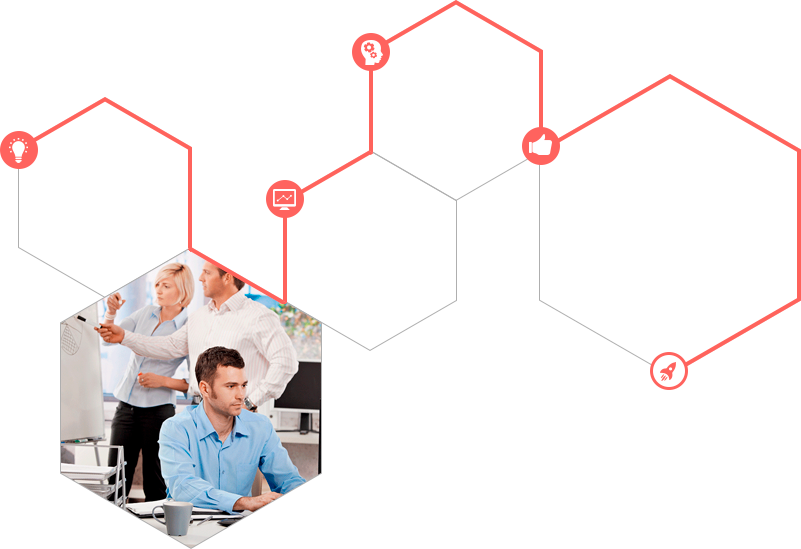
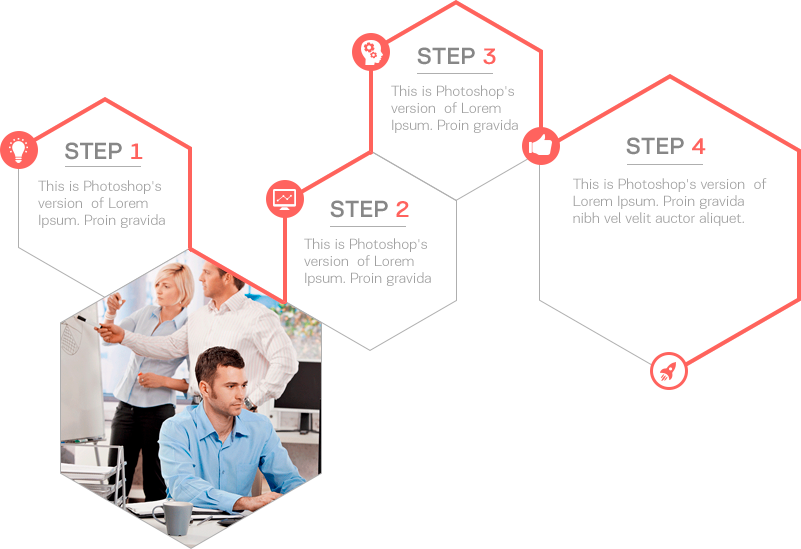
add

diff --git a/newWeb1.06/main.html b/newWeb1.06/main.html
@@ -115,7 +115,7 @@
                 </div>
             </div>
             <div class = "slider">
-                <a href="#threemain">
+                <a href="#formain">
                     <img src="./img/slider.png" alt="nothing">
                 </a>
             </div>
@@ -130,34 +130,6 @@
             </div>
             <div class="step">
                 <img src="./img/lines.png" alt="!!!!">
-                <div class="step1">
-                    <div class="name"> STEP 1</div>
-                    <img src="./img/underlite.png" alt="client">
-                    <div class="textline">
-                        This is Photoshop's version  of Lorem Ipsum. Proin gravida nibh vel velit auctor aliquet. Aenean 
-                    </div>
-                </div>
-                <div class="step2">
-                    <div class="name"> STEP 2</div>
-                    <img src="./img/underlite.png" alt="client">
-                    <div class="textline">
-                        This is Photoshop's version  of Lorem Ipsum. Proin gravida nibh vel velit auctor aliquet. Aenean 
-                    </div>
-                </div>
-                <div class="step3">
-                    <div class="name"> STEP 3</div>
-                    <img src="./img/underlite.png" alt="client">
-                    <div class="textline">
-                        This is Photoshop's version  of Lorem Ipsum. Proin gravida nibh vel velit auctor aliquet. Aenean 
-                    </div>
-                </div>
-                <div class="step4">
-                    <div class="name"> STEP 4</div>
-                    <img src="./img/underlite.png" alt="client">
-                    <div class="textline">
-                        This is Photoshop's version  of Lorem Ipsum. Proin gravida nibh vel velit auctor aliquet. Aenean 
-                    </div>
-                </div>
             </div>
             <div class = "slider">
                 <a href="#threemain">
@@ -165,5 +137,137 @@
                 </a>
             </div>
         </div>
+        <div id='formain' class="formain">
+            <div class="onelogo">
+                <div class="onelogohead">WHAT DO WE DO?</div>
+                <div class="betwen">
+                    <img src="./img/underfull.png" alt="">
+                </div>
+            </div>
+            <div class="blocks">
+                <div class="left">
+                    <div class="litetitle">Landing Pages</div>
+                    <div class="text">This is Photoshop's version  of Lorem Ipsum. Proin gravida nibh vel velit auctor aliquet. Aenean sollicitudin, lorem quis bibendum auctor, nisi elit consequat ipsum, nec sagittis sem nibh id elit. Duis sed odio sit amet nibh vulputate cursus a sit amet mauris. Morbi accumsan ipsum velit. Nam </div>
+                    <button>More details</button>
+                </div>
+                <div class="right">
+                    <img src="./img/devices.png" alt="dev">
+                </div>
+            </div>
+            <div class = "slider">
+                <a href="fivemain">
+                    <img src="./img/slider.png" alt="nothing">
+                </a>
+            </div>
+        </div>
+        <div class="fivemain">
+            <div class="blocks">
+                <div class="left">
+                    <img src="./img/devices2.png" alt="">
+                </div>
+                <div class="right">
+                    <div class="litetitle">advertising</div>
+                    <div class="text">This is Photoshop's version  of Lorem Ipsum. Proin gravida nibh vel velit auctor aliquet. Aenean sollicitudin, lorem quis bibendum auctor, nisi elit consequat ipsum, nec sagittis sem nibh id elit. Duis sed odio sit amet nibh vulputate cursus a sit amet mauris. Morbi accumsan ipsum velit. Nam </div>
+                    <button>Mote Details</button>
+                </div>
+            </div>
+            <div class = "slider">
+                <a href="#sixmain">
+                    <img src="./img/slider.png" alt="nothing">
+                </a>
+            </div>
+        </div>
+        <div id="#sixmain" class="sixmain">
+            <div class="blocks">
+                <div class="left">
+                    <div class="litetitle">marketing kit</div>
+                    <div class="text">This is Photoshop's version  of Lorem Ipsum. Proin gravida nibh vel velit auctor aliquet. Aenean sollicitudin, lorem quis bibendum auctor, nisi elit consequat ipsum, nec sagittis sem nibh id elit. Duis sed odio sit amet nibh vulputate cursus a sit amet mauris. Morbi accumsan ipsum velit. Nam</div>
+                    <button>More Dateils</button>
+                </div>
+                <div class="right">
+                    <img src="./img/book.png" alt="">
+                </div>
+            </div>
+            <div class = "slider">
+                <a href="sevenmain">
+                    <img src="./img/slider.png" alt="nothing">
+                </a>
+            </div>
+        </div>
+        <div class="sevenmain">
+            <div class="onelogo">
+                <div class="onelogohead">portfolio</div>
+                <div class="betwen">
+                    <img src="./img/underfull.png" alt="">
+                </div>
+            </div>
+            <div class="menu">
+                <img src="./img/underall.png" alt="">
+                <div class="text">all          /           entertainment           /          sport          /           business          /          building</div>
+                <img src="./img/underall.png" alt="">
+            </div>
+            <div class="main">
+                <img src="./img/portfolio.png" alt="">
+            </div>
+            <div class="button">
+                <button>I want landing page</button>
+            </div>
+            <div class = "slider">
+                <a href="sevenmain">
+                    <img src="./img/slider.png" alt="nothing">
+                </a>
+            </div>
+        </div>
+        <div class="team">
+            <div class="onelogo">
+                <div class="onelogohead">OUR TEAM</div>
+                <div class="betwen">
+                    <img src="./img/underfull.png" alt="">
+                </div>
+            </div>
+            <div class="main">
+                <div class="stuff">
+                    <div class="teamuser">
+                        <div class="img">
+                            <img src="./img/tomothy.png" alt="">
+                        </div>
+                        <div class="name">Tomothy Bowman</div>
+                        <div class="status">Marketing</div>
+                        <div class="contacts">
+                            <img src="./img/tw.png" alt="">
+                            <img src="./img/fb.png" alt="">
+                            <img src="./img/in.png" alt="">
+                        </div>
+                    </div>
+                    <div class="teamuser">
+                        <div class="img">
+                            <img src="./img/steve.png" alt="">
+                        </div>
+                        <div class="name">Steve Tracy</div>
+                        <div class="status">CEO</div>
+                        <div class="contacts">
+                            <img src="./img/tw.png" alt="">
+                            <img src="./img/fb.png" alt="">
+                            <img src="./img/in.png" alt="">
+                        </div>
+                    </div>
+                    <div class="teamuser">
+                        <div class="img">
+                            <img src="./img/hellen.png" alt="">
+                        </div>
+                        <div class="name">Hellen Johns</div>
+                        <div class="status">Clients</div>
+                        <div class="contacts">
+                            <img src="./img/tw.png" alt="">
+                            <img src="./img/fb.png" alt="">
+                            <img src="./img/in.png" alt="">
+                        </div>
+                    </div>
+                </div> 
+            </div>
+        </div>
+        <footer>
+            <img src="./img/footer.png" alt="">
+        </footer>
     </body>
 </html>

diff --git a/newWeb1.06/css/index.css b/newWeb1.06/css/index.css
@@ -240,3 +240,194 @@ p{
 .threemain .textline{
     text-align: center;
 }
+
+.step {
+    display: flex;
+    margin: 5% 13% 0;
+    align-items: center;
+    justify-content: center;
+}
+
+.step img{
+    width: auto;
+
+}
+
+.formain{
+    position: relative;
+    width: 100%;
+    height: 10%;
+    display: block;
+    color: #adadad;
+    background-image: url(../img/back4.png);
+    background-size: cover;
+}
+
+.formain .onelogo{
+    display: block;
+    margin: 9% 13% 5%;
+}
+
+.blocks{
+    position: absolute;
+    top: 30%;
+    display: block;
+    margin: 0 13% 0;
+}
+
+.blocks .left{
+    display: block;
+    float: left;
+    width: 50%;
+    margin: auto 0 auto;
+}
+
+.blocks .right{
+    display: block;
+    float: left;
+    width: 50%;
+}
+
+.left .litetitle{
+    font-family: 'PFEBold';
+    font-size: 2em;
+}
+
+.left .text{
+    font-family: 'PFEThin';
+    font-size: 1em;
+}
+.left button{
+    color: white;
+    background: #fc635e;
+    border-radius: 10px;
+}
+
+
+.fivemain{
+    position: relative;
+    width: 100%;
+    height: 10%;
+    display: block;
+    color: #adadad;
+}
+
+.fivemain .blocks{
+    margin: 0 13% 0;
+    width: 74%;
+    display: block;
+}
+
+.fivemain button{
+    float: right;
+    color: white;
+    background: #fc635e;
+    border-radius: 10px;
+}
+.fivemain .litetitle{
+    float: right;
+    font-family: 'PFEBold';
+    font-size: 2em;
+}
+
+.fivemain .text{
+    font-family: 'PFEThin';
+    font-size: 1em;
+    text-align: right;
+}
+
+.sixmain{
+    position: relative;
+    width: 100%;
+    height: 10%;
+    display: block;
+    color: #adadad;
+    background-image: url(../img/back4.png);
+    background-size: cover;
+}
+
+.sevenmain{
+    position: relative;
+    width: 100%;
+    height: 10%;
+    display: block;
+    color: #adadad;
+}
+
+.sevenmain .menu{
+    margin: 5% 13% 0;
+    display: block;
+    
+}
+
+.menu .text{
+    display: block;
+    width:  100%;
+    font-family: 'PFEThin';
+    text-align: center;
+}
+
+.menu img{
+    display: block;
+    width: 100%;
+}
+
+.sevenmain .main{
+    display: block;
+    position: relative;
+    margin: 5% 13% 0;
+    overflow: hidden;
+    text-align: center;
+    align-items: center;
+}
+
+.sevenmain .button{
+    display: block;
+    width: 100%;
+    position: absolute;
+    text-align: center;
+    align-items: center;
+    top: 80%;
+}
+
+.button button{
+    color: white;
+    background: #fc635e;
+    border-radius: 10px;
+}
+
+.team{
+    position: relative;
+    width: 100%;
+    height: 10%;
+    display: block;
+    color: #adadad;
+    background-image: url(../img/back4.png);
+    background-size: cover;
+}
+
+
+.team .stuff{
+    position: relative;
+    display: block;
+    text-align: center;
+    margin: 10% 13% 0;
+    font-family: 'PFEThin';
+}
+
+.teamuser{
+    display: block;
+    width: 33%;
+    float: left;
+}
+
+footer{
+    display: block;
+    width: 100%;
+    height: auto;
+}
+
+footer img{
+    display: block;
+    width: 100%;
+}
